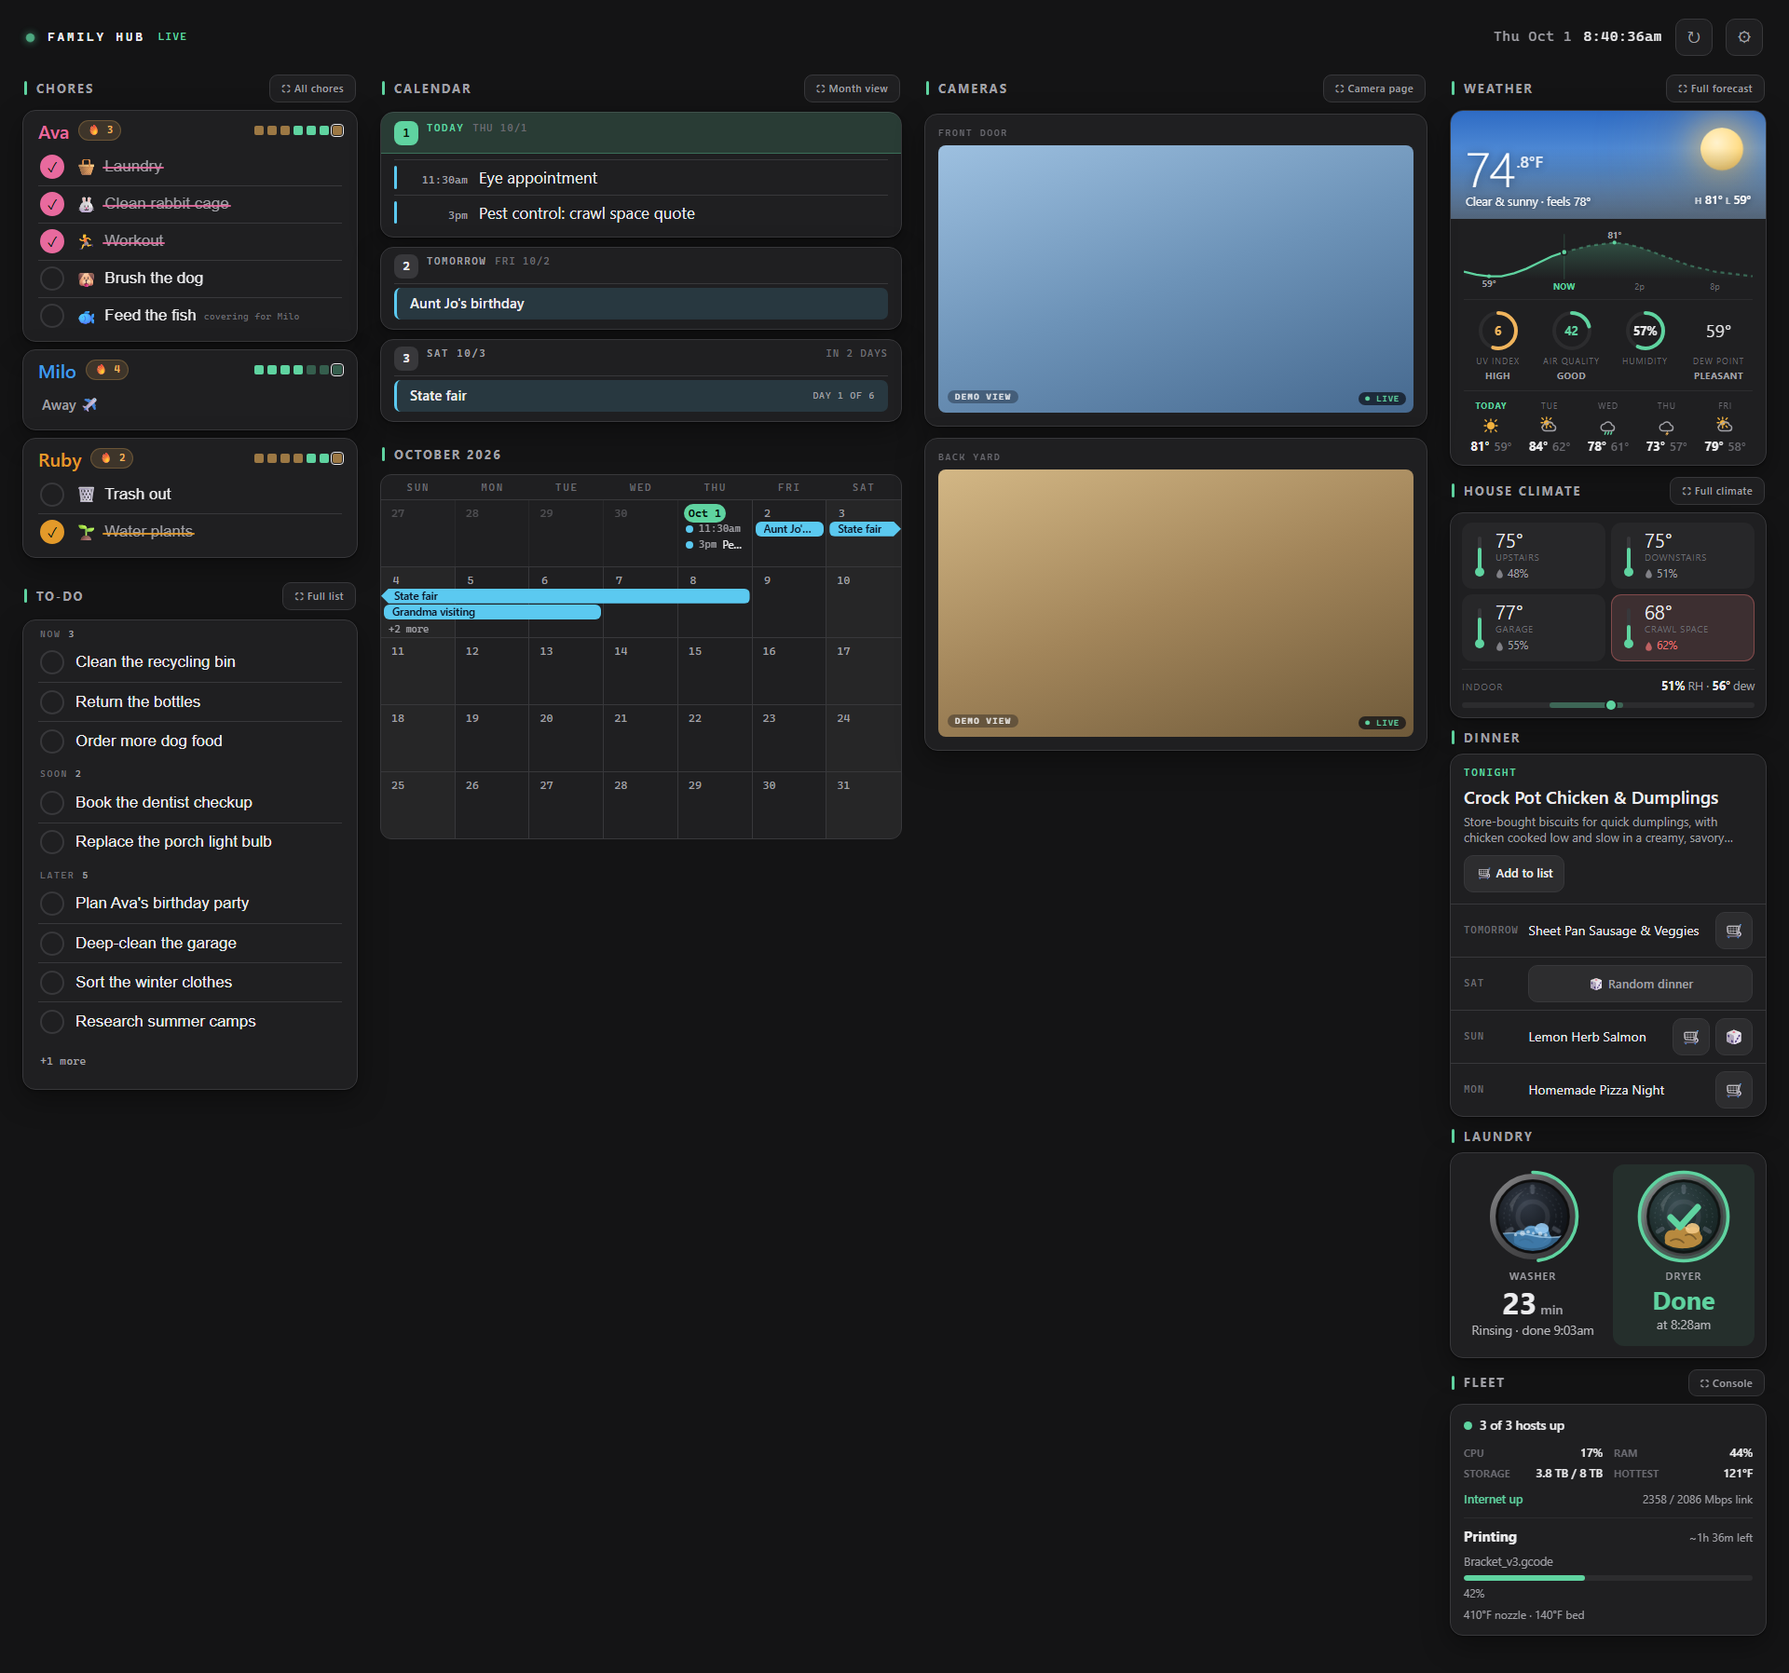
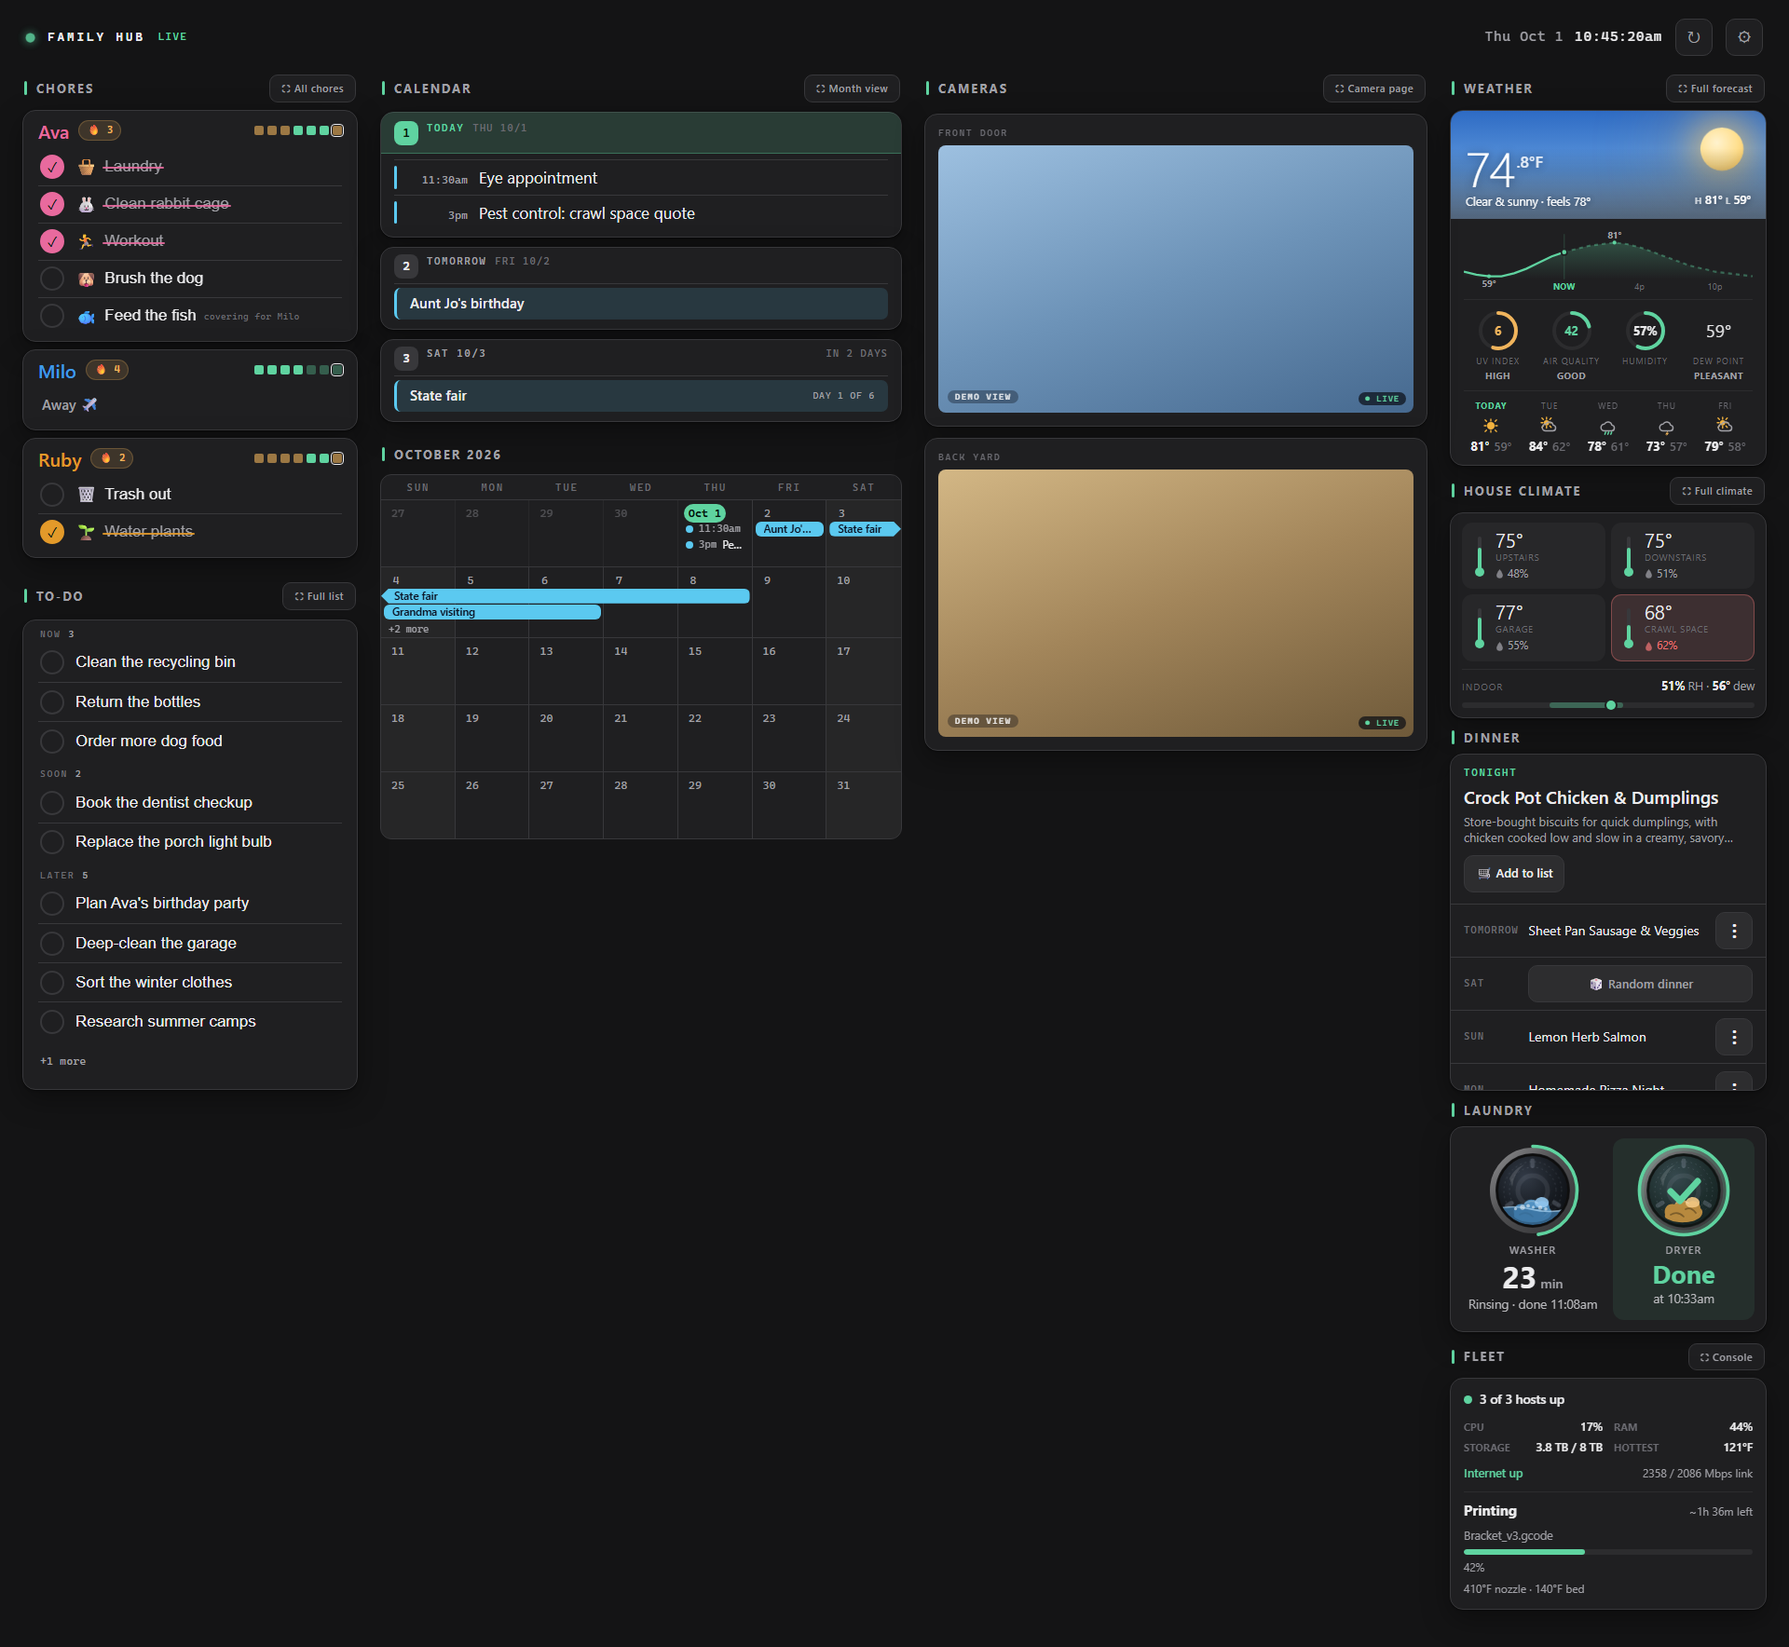
feat: Meals - following days scroll on the wall; row actions behind a menu
- the list of following days scrolls inside the card on the wall (about four
  rows with the next peeking), tonight stays pinned, so a full week (days: 7)
  does not make the dashboards column taller than the screen; a list in use
  keeps its place across the card's refresh and returns to the top when left
  alone; the phone shows the whole week
- each following day's add-to-list / re-roll buttons moved behind a menu button
  on the row (inline under the row; one at a time; closes on Escape, a tap
  elsewhere, an action, or by itself) so long recipe names keep the row
- demo shows a full week; tests

diff --git a/src/family_hub/web/static/hub.js b/src/family_hub/web/static/hub.js
@@ -31,6 +31,11 @@ let mealsData = null;     // last /api/tiles/mealie payload (native Meals card)
 let mealsFails = 0;       // consecutive meals fetch failures (see fetchMeals)
 let mealsSeq = 0;         // numbers meals fetches so a late older reply never repaints over a newer one
 let mealsWasListed = null;   // last seen 'mealie' registry listing (a flip repaints the card)
+let mealsScrollAt = 0;       // when the following-days list was last scrolled by hand
+let mealsMenuOpen = null;    // the date whose row menu (the ⋮) is open: one at a time
+let mealsMenuTimer = null;
+const MEALS_MENU_IDLE_MS = 15000;     // an open menu closes itself after this
+const MEALS_SCROLL_KEEP_MS = 30000;   // keep a hand-scrolled list in place this long, then return to the top
 const mealsBusy = new Set();   // in-flight meal actions (a button is disabled while its key is here)
 let lastIntegrations = [];  // last /api/hub integrations block (settings toggles)
 const TILE_FAIL_LIMIT = 3;   // keep the last good card until this many in a row
@@ -3709,9 +3714,49 @@ function mealsRowHtml(day, todayStr) {
     return `<div class="meal-row meal-row-empty">${wd}`
       + mealBtn('random', '🎲 Random dinner', { date: day.date }, 'meal-btn-random') + `</div>`;
   }
-  return `<div class="meal-row">${wd}<span class="meal-rname">${escapeHtml(dn.name)}</span>${mealMoreHtml(dn)}`
-    + `<span class="meal-row-actions">${mealActions(day, dn, true)}</span></div>`;
+  // The actions (add to list, re-roll) sit behind a menu button, like Mealie's own, so a long
+  // recipe name keeps the row. The menu opens INLINE under its row rather than as a floating
+  // popover: the list scrolls on the wall, and a popover would be clipped by it.
+  const canAct = !!dn.recipe_id || (dn.rolled && dn.id != null);
+  const open = canAct && mealsMenuOpen === day.date;
+  const nm = escapeHtml(dn.name);
+  const menuBtn = canAct
+    ? `<button type="button" class="meal-btn meal-btn-more" data-meals-menu="${escapeHtml(day.date)}"`
+      + ` aria-label="More for ${nm}" aria-haspopup="true" aria-expanded="${open}">⋮</button>`
+    : '';
+  return `<div class="meal-row">${wd}<span class="meal-rname">${nm}</span>${mealMoreHtml(dn)}${menuBtn}</div>`
+    + (open ? `<div class="meal-menu" role="group" aria-label="Actions for ${nm}">${mealActions(day, dn)}</div>` : '');
 }
+
+// Open/close a row's menu. One at a time; it closes by itself, on Escape, on a tap anywhere
+// else, and after an action (mealsAct). Focus stays on the menu button across the repaint.
+function closeMealsMenu(render = true) {
+  clearTimeout(mealsMenuTimer);
+  mealsMenuTimer = null;
+  if (mealsMenuOpen === null) return;
+  mealsMenuOpen = null;
+  if (render) renderMeals();
+}
+
+function toggleMealsMenu(date) {
+  clearTimeout(mealsMenuTimer);
+  mealsMenuTimer = null;
+  mealsMenuOpen = mealsMenuOpen === date ? null : date;
+  renderMeals();
+  const host = document.getElementById('meals-slot');
+  if (!host || typeof host.querySelector !== 'function') return;
+  if (mealsMenuOpen !== null) {
+    mealsMenuTimer = setTimeout(closeMealsMenu, MEALS_MENU_IDLE_MS);
+    const menu = host.querySelector('.meal-menu');
+    if (menu && typeof menu.scrollIntoView === 'function') menu.scrollIntoView({ block: 'nearest' });
+  }
+  const btn = [...host.querySelectorAll('[data-meals-menu]')].find((b) => b.dataset.mealsMenu === date);
+  if (btn && typeof btn.focus === 'function') btn.focus();
+}
+
+document.addEventListener('keydown', (e) => {
+  if (e && e.key === 'Escape' && mealsMenuOpen !== null) closeMealsMenu();
+});
 
 function mealsCardHtml(m) {
   const todayStr = data_date || todayISO();
@@ -3748,8 +3793,23 @@ function renderMeals(m = mealsData) {
     : m.available
       ? mealsCardHtml(m)
       : `<div class="wx-offline">${m.needs_auth ? 'Meals needs a Mealie token' : 'Meals unavailable'}</div>`;
+  // The list of following days scrolls on the wall. innerHTML replaces it every fetch, which
+  // would snap a list somebody is scrolling back to the top; carry the position across a
+  // repaint while it is being used, and let it return to the top once it has been left alone.
+  const prev = typeof host.querySelector === 'function' ? host.querySelector('.meal-rows') : null;
+  const keep = prev && prev.scrollTop > 0 && Date.now() - mealsScrollAt < MEALS_SCROLL_KEEP_MS ? prev.scrollTop : 0;
   host.innerHTML = head + body;
+  if (keep) {
+    const next = host.querySelector('.meal-rows');
+    if (next) next.scrollTop = keep;
+  }
 }
+
+// scroll does not bubble: listen in the capture phase to learn when the list is being used
+document.addEventListener('scroll', (e) => {
+  const t = e.target;
+  if (t && t.classList && t.classList.contains('meal-rows')) mealsScrollAt = Date.now();
+}, true);
 
 async function fetchMeals() {
   // A hub that has loaded its registry and has no Meals in it never asks. Before the
@@ -3775,8 +3835,9 @@ async function fetchMeals() {
 function mealsRestoreFocus(f) {
   const host = document.getElementById('meals-slot');
   if (!host || typeof host.querySelectorAll !== 'function') return;
-  const el = [...host.querySelectorAll('[data-meals-act]')].find((b) =>
+  let el = [...host.querySelectorAll('[data-meals-act]')].find((b) =>
     b.dataset.mealsAct === f.act && (b.dataset.date || '') === f.date && (b.dataset.recipe || '') === f.recipe);
+  if (!el) el = [...host.querySelectorAll('[data-meals-menu]')].find((b) => b.dataset.mealsMenu === f.date);
   if (el && !el.disabled && typeof el.focus === 'function') el.focus();
 }
 
@@ -3809,6 +3870,7 @@ async function mealsAct(btn) {
     showToast((e && e.message) ? e.message : 'That did not work');
   } finally {
     mealsBusy.delete(key);
+    closeMealsMenu(false);          // the repaint below drops the menu
     try { renderMeals(); } catch (e) { /* the re-read below repaints */ }
   }
   await fetchMeals();
@@ -4427,6 +4489,8 @@ async function confirmDelete() {
 /* --------------------------------------------------------------- wiring */
 
 document.addEventListener('click', (e) => {
+  // a tap anywhere outside an open meal menu closes it (and still does whatever it was aimed at)
+  if (mealsMenuOpen !== null && !e.target.closest('.meal-menu') && !e.target.closest('[data-meals-menu]')) closeMealsMenu();
   const tabBtn = e.target.closest('.tab-btn');
   if (tabBtn) { setTab(tabBtn.dataset.tab); return; }
   // delete confirm (above everything): Cancel or a backdrop tap dismisses it
@@ -4452,6 +4516,8 @@ document.addEventListener('click', (e) => {
       || (e.target.closest('.ev-modal') && !e.target.closest('.ev-card'))) {
     closeEventDetail(); return;
   }
+  const mealMenuBtn = e.target.closest('[data-meals-menu]');
+  if (mealMenuBtn) { toggleMealsMenu(mealMenuBtn.dataset.mealsMenu); return; }
   const mealBtnEl = e.target.closest('[data-meals-act]');
   if (mealBtnEl) { mealsAct(mealBtnEl); return; }
   const evRow = e.target.closest('[data-eid]');

diff --git a/src/family_hub/web/static/styles.css b/src/family_hub/web/static/styles.css
@@ -969,7 +969,12 @@ body {
 .meal-none { font-size: 15px; color: var(--dim); }
 .meal-more { flex: none; font-family: var(--mono); font-size: 11px; font-weight: 600; color: var(--accent); }
 .meal-actions { display: flex; flex-wrap: wrap; gap: 8px; margin-top: 4px; }
-.meal-rows { border-top: 1px solid var(--edge); }
+/* The following days scroll INSIDE the card on the wall (tonight's block stays put), so a
+   full week (mealie.days up to 7) does not make the column taller than the screen. The
+   cap shows four rows and the top of the fifth: that peek is the hint there is more. The
+   phone shell lifts the cap (the Meals tab is its own scrolling page). */
+.meal-rows { border-top: 1px solid var(--edge); max-height: 200px; overflow-y: auto;
+  overscroll-behavior: contain; scrollbar-width: thin; -webkit-overflow-scrolling: touch; }
 .meal-row { display: flex; align-items: center; gap: 10px; padding: 8px 14px; min-height: 44px; min-width: 0;
   border-bottom: 1px solid var(--edge); }
 .meal-row:last-child { border-bottom: 0; }
@@ -980,7 +985,6 @@ body {
    every ancestor's min-content and widened the whole phone page */
 .meal-rname { flex: 1 1 0; width: 0; min-width: 0; font-size: 14px; color: var(--ink);
   overflow: hidden; text-overflow: ellipsis; white-space: nowrap; }
-.meal-row-actions { flex: none; display: flex; gap: 6px; }
 .meal-btn { font: inherit; font-size: 13px; font-weight: 600; color: var(--ink); cursor: pointer;
   background: color-mix(in srgb, var(--ink) 7%, transparent); border: 1px solid var(--edge);
   border-radius: 10px; padding: 8px 12px; min-height: 40px; white-space: nowrap; }
@@ -990,6 +994,10 @@ body {
 .meal-btn-big { min-height: 48px; font-size: 15px; width: 100%; }
 .meal-row-empty .meal-btn-random { flex: 1; text-align: left; color: var(--dim); font-weight: 500; }
 .meal-row .meal-btn { padding: 6px 0; min-height: 40px; min-width: 40px; font-size: 16px; line-height: 1; text-align: center; }
+.meal-row .meal-btn-more { flex: none; font-size: 20px; font-weight: 700; }
+/* a row's action menu, open inline under the row (a floating popover would be clipped by the scrolling list) */
+.meal-menu { display: flex; flex-wrap: wrap; gap: 8px; padding: 8px 14px 10px;
+  background: color-mix(in srgb, var(--ink) 5%, transparent); border-bottom: 1px solid var(--edge); }
 .meal-row .meal-row-empty .meal-btn, .meal-row-empty .meal-btn-random { font-size: 13px; }
 .fleet { padding: 12px 14px; display: flex; flex-direction: column; gap: 10px; }
 .fleet-sys { display: flex; align-items: center; gap: 8px; }
@@ -2585,6 +2593,7 @@ body.integ-off-todos .todo-slot { display: none; }
   :root:not([data-layout="desktop"]) body[data-tab="meals"] .todos-page { display: none; }
   :root:not([data-layout="desktop"]) body[data-tab="meals"] .panels > :not(.meals-slot) { display: none; }
   /* phone: every meal control is a full-size tap target */
+  :root:not([data-layout="desktop"]) .meal-rows { max-height: none; overflow: visible; }
   :root:not([data-layout="desktop"]) .meal-btn { min-height: 44px; padding: 10px 14px; font-size: 14px; }
   :root:not([data-layout="desktop"]) .meal-row .meal-btn { min-width: 44px; }
   :root:not([data-layout="desktop"]) .meal-row { min-height: 52px; }

diff --git a/tests/test_static.py b/tests/test_static.py
@@ -964,6 +964,24 @@ def test_meals_card_is_wired_end_to_end():
         "the icon buttons in the rows must be 44px wide on a phone, not just 44px tall"
 
 
+def test_meals_following_days_scroll_on_the_wall_and_not_on_the_phone():
+    """A week of dinners (mealie.days up to 7) must not make the wall's dashboards
+    column taller than the screen: the wall caps the following-days list and lets
+    it scroll inside the card, with tonight's block outside it. The phone shell
+    lifts the cap (its Meals tab is a scrolling page of its own). The cap has to
+    stay a few rows tall: too small hides the week, too large defeats the point."""
+    rule = re.search(r"(?m)^\.meal-rows\s*\{([^}]*max-height[^}]*)\}", CSS)
+    assert rule, "the wall's .meal-rows rule needs a max-height"
+    body = rule.group(1)
+    px = int(re.search(r"max-height:\s*(\d+)px", body).group(1))
+    assert 150 <= px <= 280, f"max-height {px}px: about four rows (a row is ~44px) with the next one peeking"
+    assert re.search(r"overflow-y:\s*auto", body), "the list must scroll"
+    assert re.search(r"overscroll-behavior:\s*contain", body), "a scroll inside the list must not drag the wall page"
+    mobile = _phone_shell_css()
+    assert re.search(r'\.meal-rows\s*\{\s*max-height:\s*none;\s*overflow:\s*visible', mobile), \
+        "the phone must show the whole week, not a small scroller inside a scrolling page"
+
+
 def test_known_integration_ids_cover_every_registry_id():
     """renderIntegrations is the ONLY place the body.integ-off-<id> hide classes
     are set, and it loops KNOWN_INTEGRATION_IDS. An id the registry can emit but

diff --git a/src/family_hub/demo.py b/src/family_hub/demo.py
@@ -372,7 +372,8 @@ def demo_laundry() -> dict:
 
 
 def demo_meals(today) -> dict:
-    """A live-shaped meals tile (matches meals.meals_tile): tonight planned, a
+    """A live-shaped meals tile (matches meals.meals_tile): a full week (7 days,
+    the most the card shows; the list scrolls on the wall), tonight planned, a
     gap day the card offers a random pick for, and a couple more planned days,
     one of them picked by the hub itself so its re-roll shows. Dates are
     relative to ``today`` so a screenshot always looks current. No photo: the
@@ -398,6 +399,8 @@ def demo_meals(today) -> dict:
         day(2),
         day(3, "Lemon Herb Salmon", rolled=True, entry_id=4),
         day(4, "Homemade Pizza Night", entry_id=5),
+        day(5, "Taco Tuesday Beef Tacos", entry_id=6),
+        day(6),
     ]}
 
 

diff --git a/tests/test_demo.py b/tests/test_demo.py
@@ -484,7 +484,7 @@ def test_demo_meals_tile_shows_the_card_best_states(demo_client):
     t = demo_client.get("/api/tiles/mealie").json()
     assert t["available"] is True
     days = t["days"]
-    assert len(days) == 5
+    assert len(days) == 7, "a full week: the most the card shows, and the case the scrolling list is for"
     assert abs((dt.date.fromisoformat(days[0]["date"]) - dt.date.today()).days) <= 1   # the app's own local date
     assert [d["date"] for d in days] == sorted({d["date"] for d in days}), "consecutive, unique days"
     assert days[0]["dinner"] and days[0]["dinner"]["name"] and days[0]["dinner"]["description"]

diff --git a/README.md b/README.md
@@ -111,11 +111,13 @@ at one URL.
   remaining-time timestamp works. Fails soft like weather/climate.
 - **Meals (Mealie):** an optional "Dinner" card for a [Mealie](https://mealie.io)
   server: tonight's dinner with its photo and description, then one row per
-  following day. An **empty day** is a big **🎲 Random dinner** button; a dinner
-  the hub itself picked also gets a **🎲** to re-roll it (it never replaces a
-  dinner somebody planned by hand, and a re-roll draws again if it lands on the
-  same recipe); every planned day has a **🛒** that adds that recipe's
-  ingredients to your shopping list. **⛶ Full screen** opens Mealie itself. It
+  following day (up to a full week with `days: 7`; on the wall the list scrolls inside
+  the card while tonight stays put). An **empty day** is a big **🎲 Random dinner** button. Each
+  planned following day has a **⋮** menu (so a long recipe name keeps its row)
+  with **🛒 Add to list**, which adds that recipe's ingredients to your shopping
+  list, and, for a dinner the hub itself picked, **🎲 Re-roll** (it never
+  replaces a dinner somebody planned by hand, and it draws again if it lands on
+  the same recipe). Tonight's block keeps both as plain buttons. **⛶ Full screen** opens Mealie itself. It
   rides the panels column on the wall and has its own **Meals** tab on the
   phone. Needs a `mealie` config block and a `MEALIE_API_TOKEN` env var (below);
   off entirely without the block.

diff --git a/CHANGELOG.md b/CHANGELOG.md
@@ -10,6 +10,18 @@ rolls that section to a dated version via `python scripts/release.py`.
 
 ## [Unreleased]
 
+### Changed
+- Meals: the following days now scroll inside the card on the wall (tonight stays
+  pinned above), so a full week (`mealie.days` up to 7) no longer makes the
+  dashboards column taller than the screen. A list you are scrolling keeps its
+  place when the card refreshes, and returns to the top once left alone. The
+  phone's Meals tab still shows the whole week.
+- Meals: each following day's add-to-list and re-roll buttons now live behind a
+  ⋮ menu on the row (open inline under it; it closes on a tap elsewhere,
+  Escape, after an action, or by itself), so a long recipe name keeps the whole
+  row. Tonight's dinner keeps its buttons, and an empty day still has its big
+  Random dinner button.
+
 ### Fixed
 - An embedded dashboard panel (for example Mealie) no longer overflows its
   column when you switch Columns to "Wells" (or flip the layout) while the
